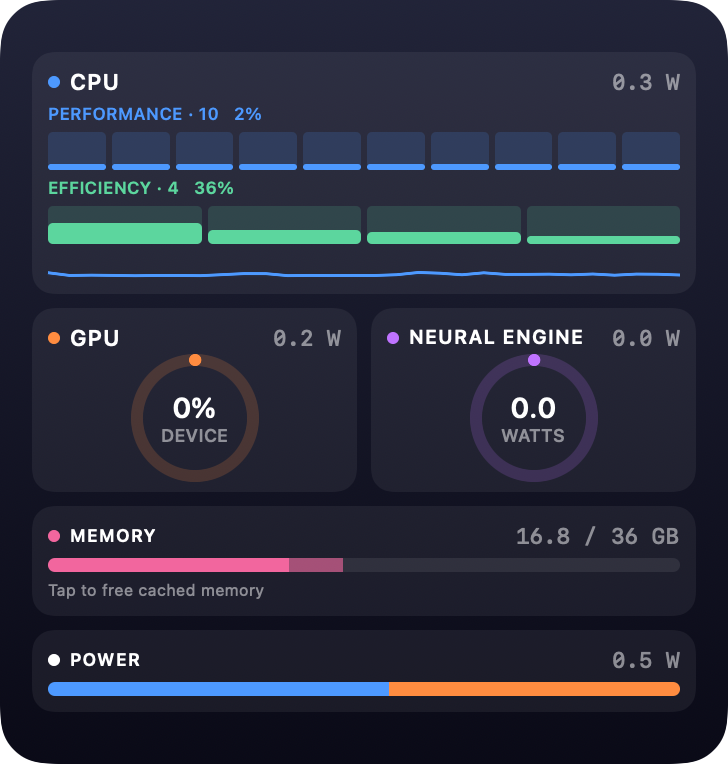
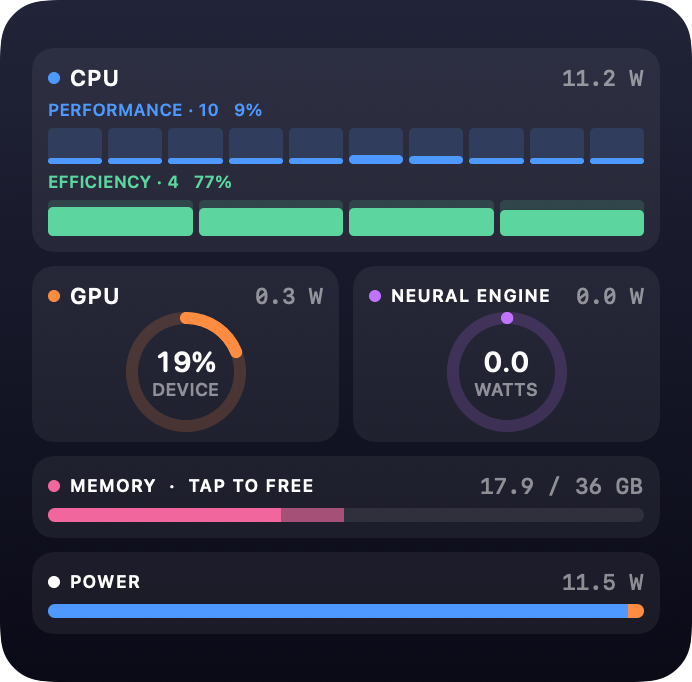
Fit the widget layouts to the real widget sizes
The large widget was clipped on screen. Drops the CPU sparkline, moves the tap
hint into the memory header and renders the documentation images at real sizes.

diff --git a/Sources/Shared/WidgetViews.swift b/Sources/Shared/WidgetViews.swift
@@ -184,28 +184,26 @@ struct LargeWidgetView: View {
             panel {
                 Header(title: "CPU", tint: Palette.cpuP, trailing: watts(d.cpuW, known: d.powerKnown), size: 11)
                 Text("PERFORMANCE · \(d.pCores.count)   \(pct(avg(d.pCores)))").font(.system(size: 8.5, weight: .semibold)).foregroundStyle(Palette.cpuP)
-                CoreBars(loads: d.pCores, color: Palette.cpuP, height: 19)
+                CoreBars(loads: d.pCores, color: Palette.cpuP, height: 18)
                 Text("EFFICIENCY · \(d.eCores.count)   \(pct(avg(d.eCores)))").font(.system(size: 8.5, weight: .semibold)).foregroundStyle(Palette.cpuE)
-                CoreBars(loads: d.eCores, color: Palette.cpuE, height: 19)
-                Sparkline(values: d.cpuHist, color: Palette.cpuP).frame(height: 13)
+                CoreBars(loads: d.eCores, color: Palette.cpuE, height: 18)
             }
             HStack(spacing: 7) {
                 panel {
                     Header(title: "GPU", tint: Palette.gpu, trailing: watts(d.gpuW, known: d.powerKnown), size: 11)
                     Ring(value: d.gpuUtil, color: Palette.gpu, label: pct(d.gpuUtil), sub: "DEVICE", line: 6, labelSize: 14)
-                        .frame(width: 58, height: 58).frame(maxWidth: .infinity)
+                        .frame(width: 54, height: 54).frame(maxWidth: .infinity)
                 }
                 panel {
                     Header(title: "NEURAL ENGINE", tint: Palette.ane, trailing: watts(d.aneW, known: d.powerKnown), size: 11)
                     Ring(value: min(d.aneW / WidgetData.aneMaxWatts, 1), color: Palette.ane, label: String(format: "%.1f", d.aneW),
-                         sub: "WATTS", line: 6, labelSize: 14).frame(width: 58, height: 58).frame(maxWidth: .infinity)
+                         sub: "WATTS", line: 6, labelSize: 14).frame(width: 54, height: 54).frame(maxWidth: .infinity)
                 }
             }
             tappable(panel {
-                Header(title: "MEMORY", tint: Palette.mem, trailing: memoryUsage(d), size: 11)
+                Header(title: d.purgeNote.isEmpty ? "MEMORY  ·  TAP TO FREE" : "MEMORY", tint: Palette.mem, trailing: memoryUsage(d), size: 11)
                 StackedBar(parts: [(d.memApp / max(d.memTotal, 1), Palette.mem), (d.memWired / max(d.memTotal, 1), Palette.mem.opacity(0.6)),
                                    (d.memCompressed / max(d.memTotal, 1), Palette.mem.opacity(0.35))], height: 7)
-                Text("Tap to free cached memory").font(.system(size: 8)).foregroundStyle(.secondary)
             }.contentShape(Rectangle()))
             panel {
                 let t = max(d.totalW, 0.001)

diff --git a/Sources/SiliconInfo/WidgetBridge.swift b/Sources/SiliconInfo/WidgetBridge.swift
@@ -55,7 +55,7 @@ func renderWidgetImages(_ d: WidgetData, to dir: String) {
         try? png.write(to: URL(fileURLWithPath: "\(dir)/\(name).png"))
     }
     try? FileManager.default.createDirectory(atPath: dir, withIntermediateDirectories: true)
-    for c in ComponentChoice.allCases { save(SmallWidgetView(d: d, component: c), width: 170, height: 170, name: "small-\(c.rawValue)") }
-    save(MediumWidgetView(d: d), width: 364, height: 170, name: "medium")
-    save(LargeWidgetView(d: d), width: 364, height: 382, name: "large")
+    for c in ComponentChoice.allCases { save(SmallWidgetView(d: d, component: c), width: 158, height: 158, name: "small-\(c.rawValue)") }
+    save(MediumWidgetView(d: d), width: 338, height: 158, name: "medium")
+    save(LargeWidgetView(d: d), width: 346, height: 341, name: "large")
 }
